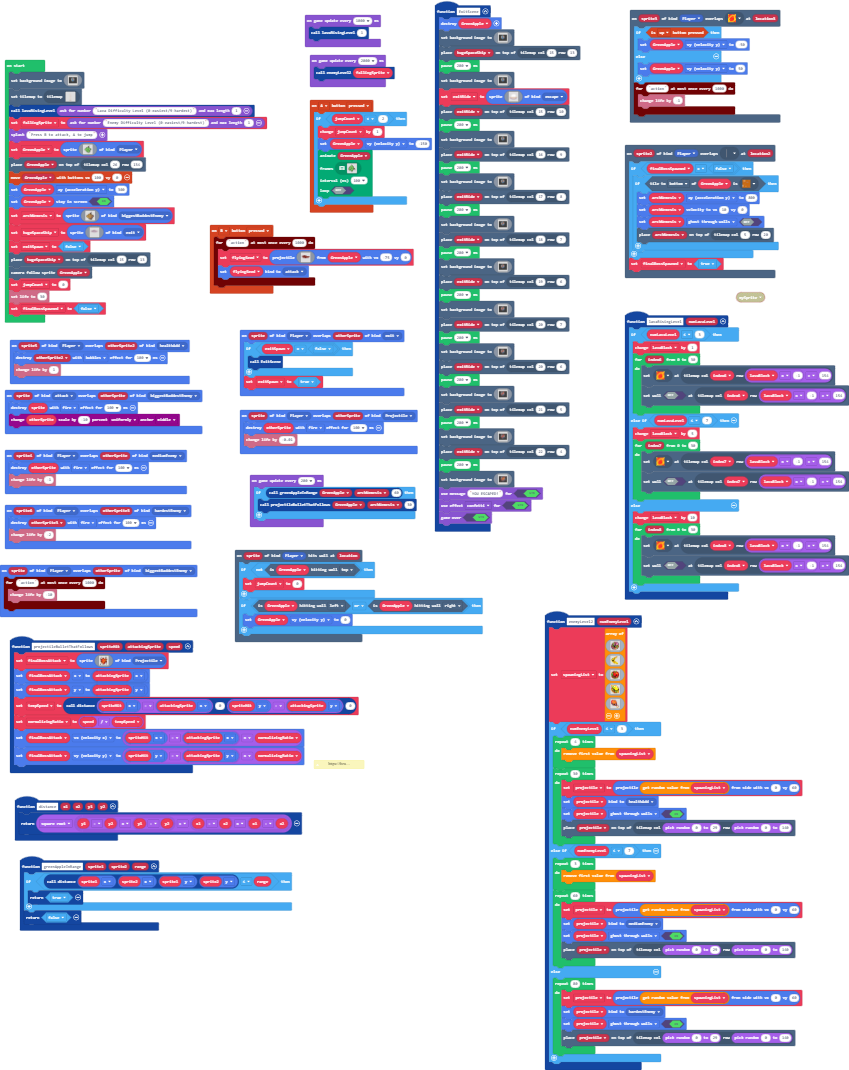
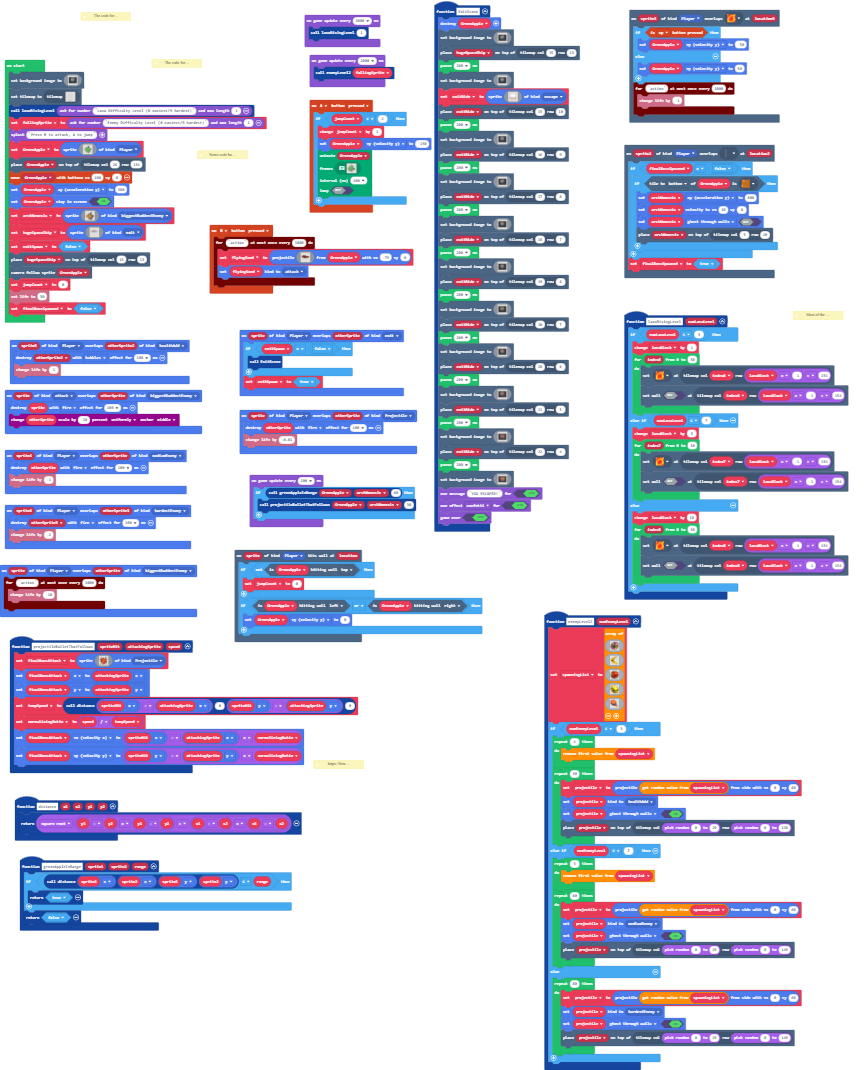
Update main.blocks, main.ts

diff --git a/main.ts b/main.ts
@@ -7,6 +7,9 @@ namespace SpriteKind {
     export const exit = SpriteKind.create()
     export const escape = SpriteKind.create()
 }
+/**
+ * The code for Scaling functionality was made freely available by: https://github.com/microsoft/pxt-common-packages/blob/v11/libs/sprite-scaling/docs/reference/sprites/scaling/scale-by-pixels.md
+ */
 scene.onHitWall(SpriteKind.Player, function (sprite, location) {
     if (!(GreenApple.isHittingTile(CollisionDirection.Top))) {
         jumpCount = 0
@@ -287,6 +290,9 @@ sprites.onOverlap(SpriteKind.Player, SpriteKind.Projectile, function (sprite, ot
     sprites.destroy(otherSprite, effects.fire, 100)
     info.changeLifeBy(-0.01)
 })
+/**
+ * Most of the lava coding was made freely available by https://arcade.makecode.com/35572-32924-30681-92459, @Eden264
+ */
 function lavaRisingLevel (numLavaLevel: number) {
     if (numLavaLevel <= 3) {
         lavaBlock += 1
@@ -1708,6 +1714,14 @@ sprites.onOverlap(SpriteKind.Player, SpriteKind.biggestBaddestEnemy, function (s
         info.changeLifeBy(-10)
     })
 })
+/**
+ * The code for Timer functionality was made freely available by: 
+ * 
+ * https://github.com/microsoft/arcade-timers
+ */
+/**
+ * Some code has been provided as starter code by my teacher, I have my teachers examples of basic coding in my project, it made me animate my sprites, and made my sprite be able to double jump
+ */
 let exitRide: Sprite = null
 let lavaBlock = 0
 let projectile: Sprite = null
